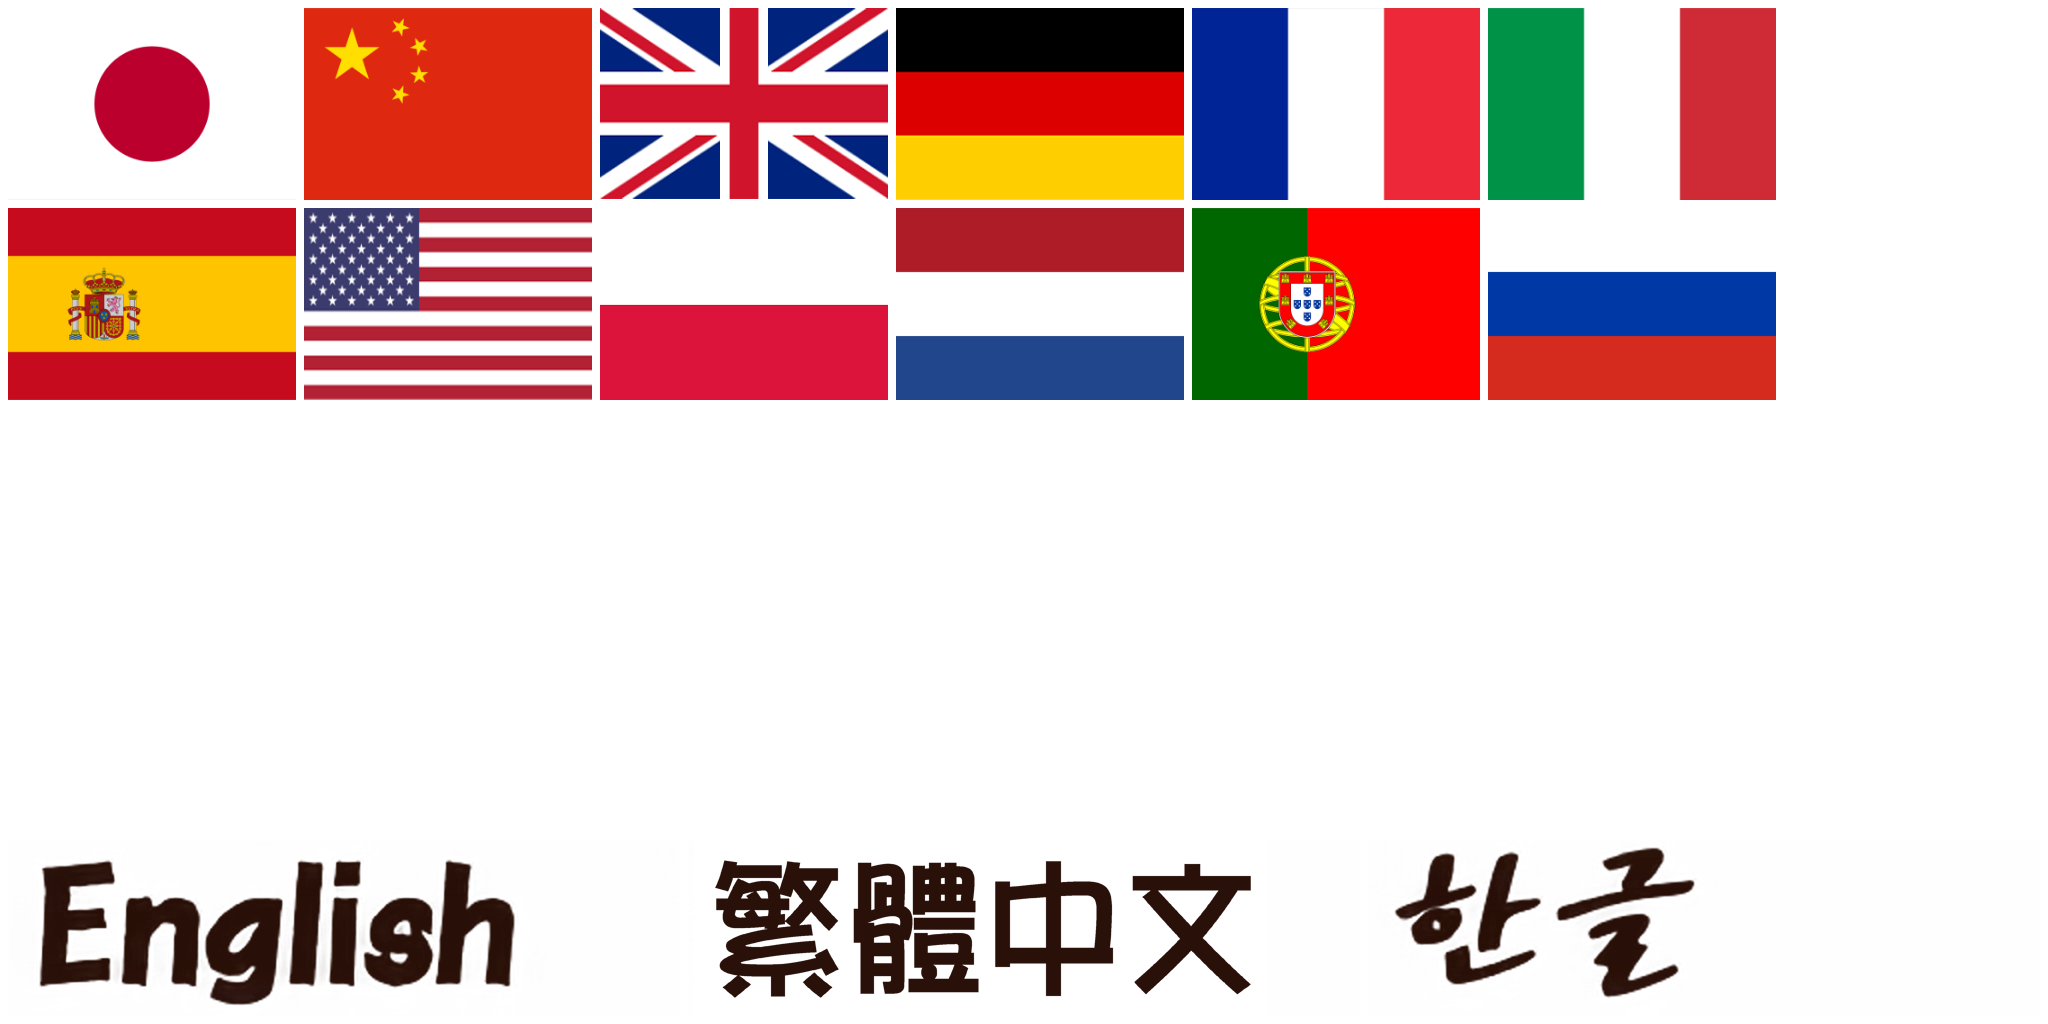
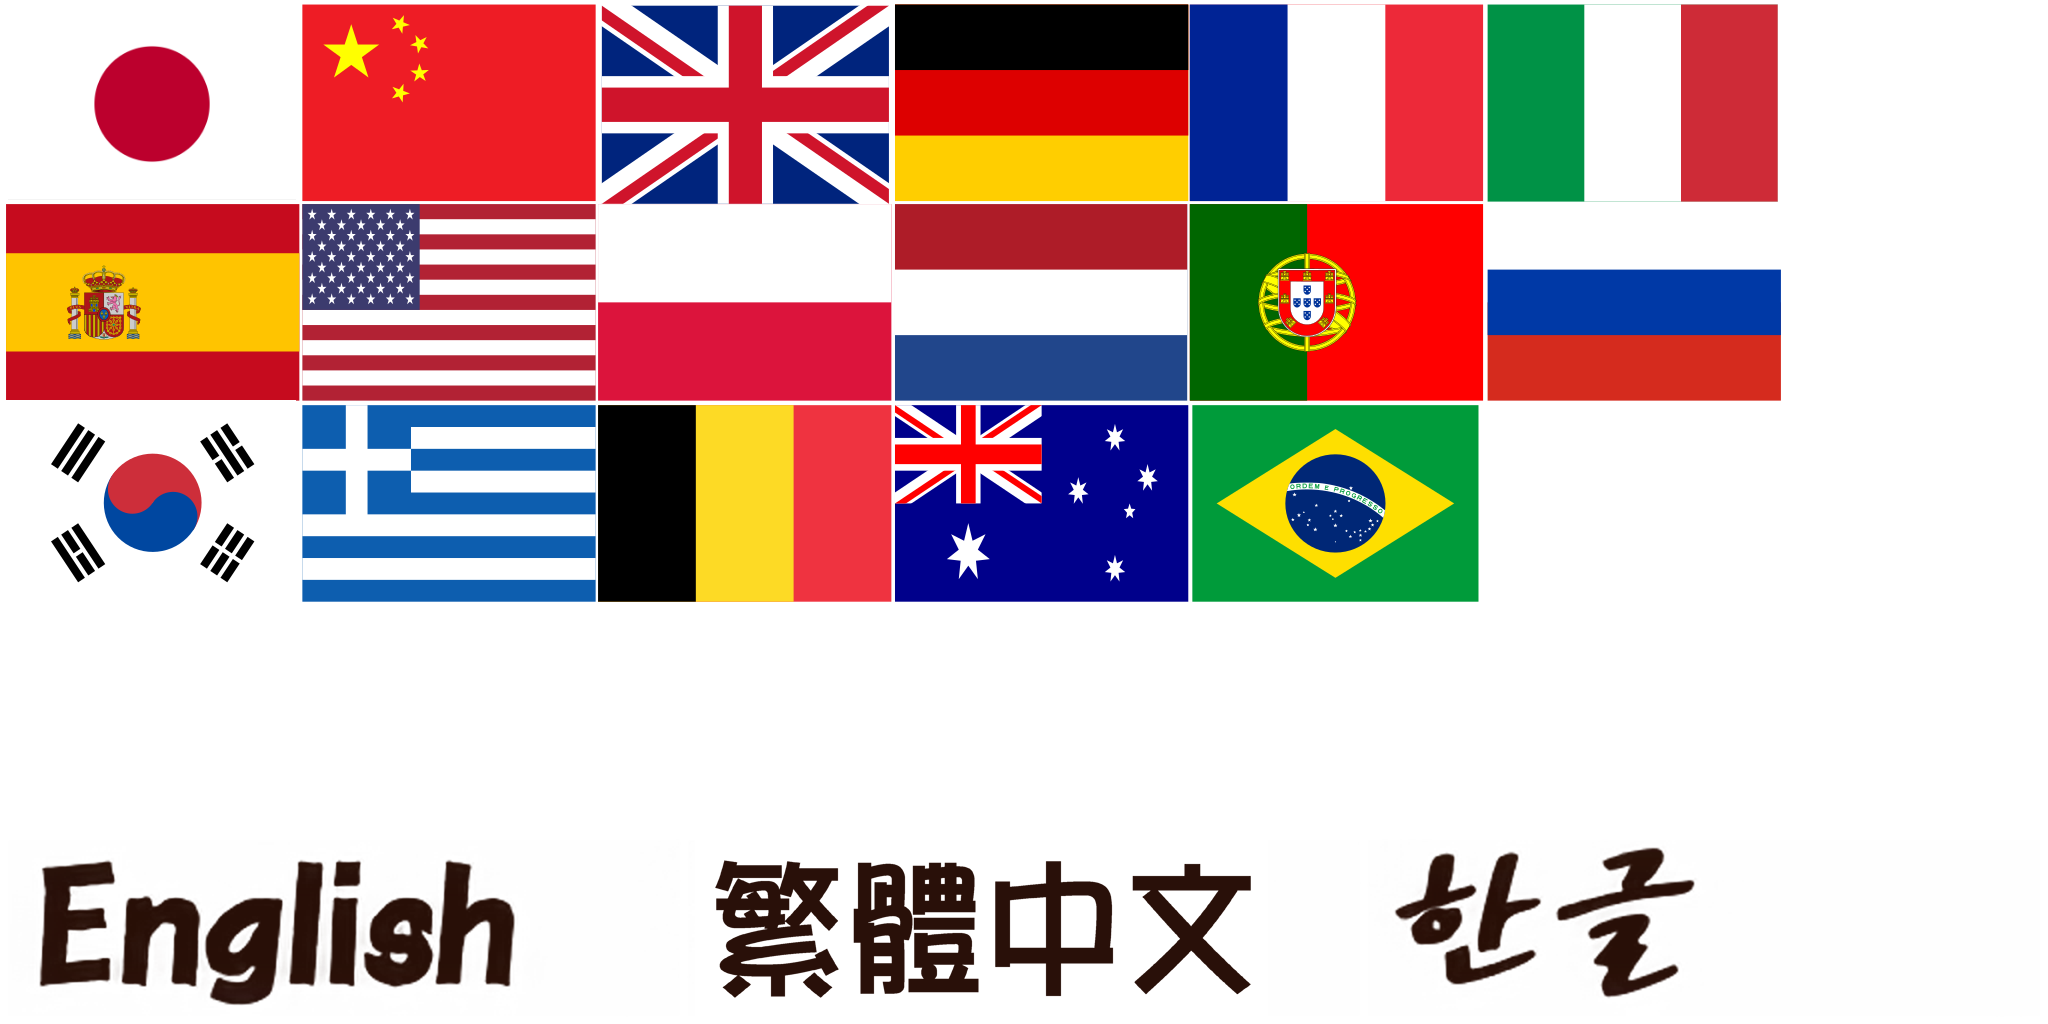
korean language textures update by hanuvo

diff --git a/README.md b/README.md
@@ -90,3 +90,5 @@ bl4zerp
 thiago34x
 
 mamba
+
+hanuvo
